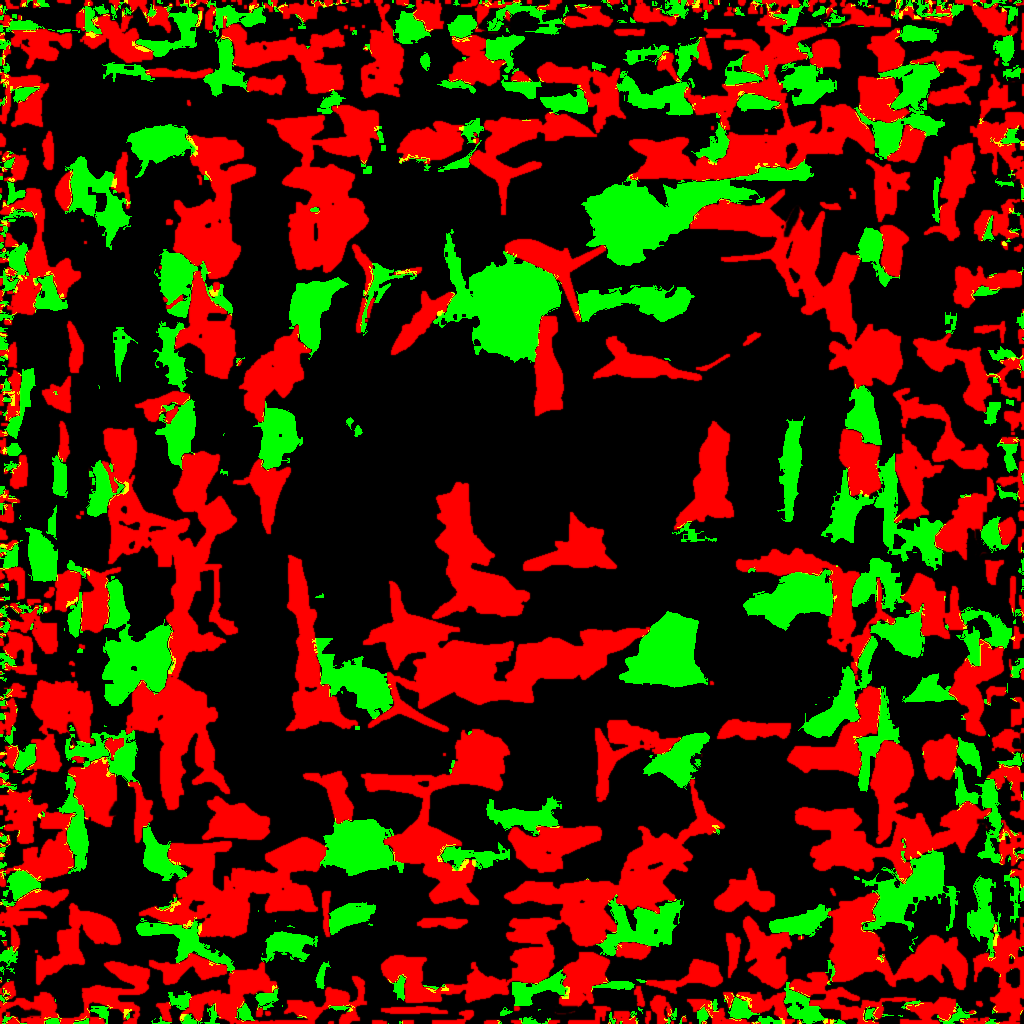
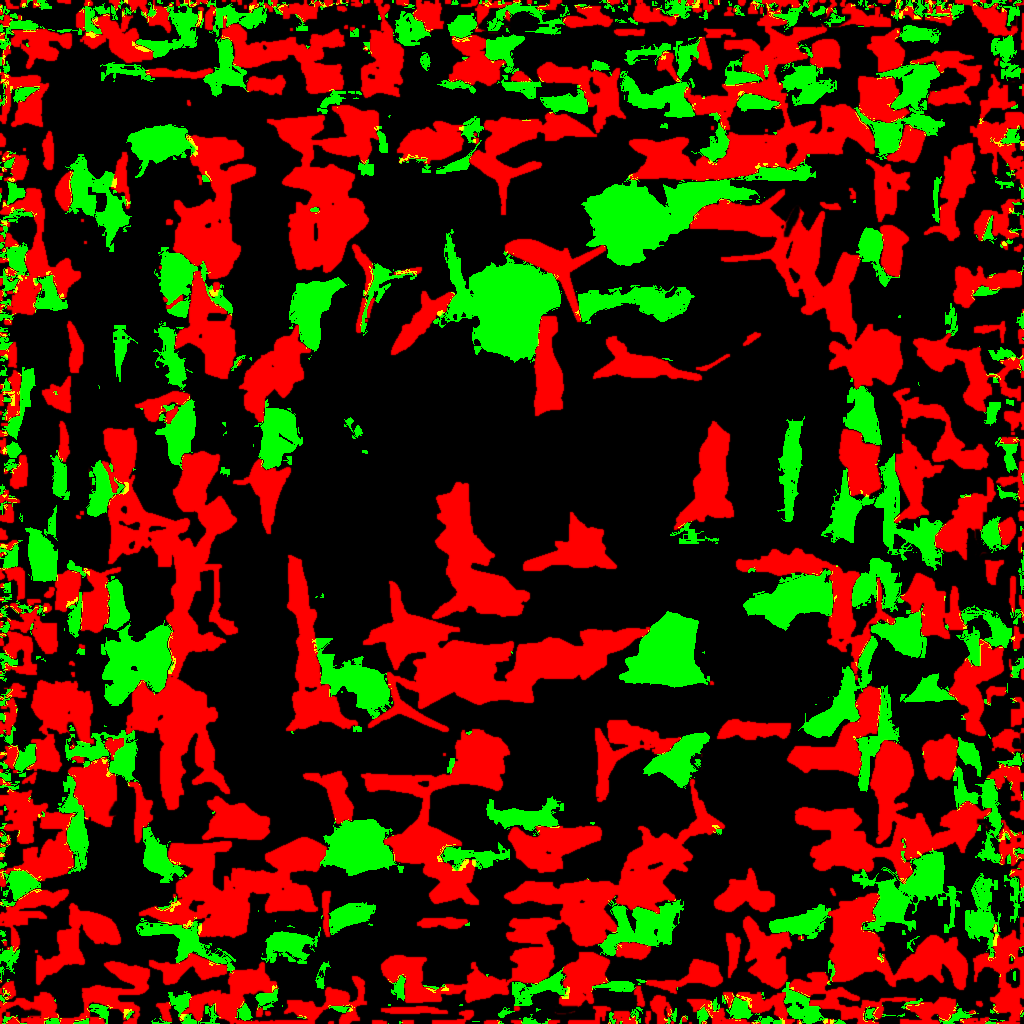
Dark skin tones: no pale patches on the neck and wrists, no dark blotches on the tops (review 26.10 item 8)
meshy-tex/skinmask3.py, a last pass over the twelve outfit masks:
- skin painted just past the neck and hands (the V of a hood, a wrist under a cuff) was left out
  of the mask, since the part map gives those triangles to the chest and forearms: it showed as
  pale patches round a dark neck and wrist. Now taken near the neck, head and hands (the neck's
  weight is shared with the head, so the neck alone anchored almost nothing).
- cloth earlier passes took for skin (a yellow sweater, an orange hoodie, white cuffs, prints)
  turned dark with a dark skin: off the head and hands, very saturated, near white or grey paint
  is let go.
Checked by rendering every outfit with the darkest tone against its plain texture; masks ?v=6.

Claude-Session: https://claude.ai/code/session_018KhzbYa45jZkz7bk7p363N

diff --git a/public/store-game/index.html b/public/store-game/index.html
@@ -2790,7 +2790,7 @@ const MESHY_MASK={};
 function meshyMask(name){ if(MESHY_MASK[name]) return MESHY_MASK[name];
   // no mipmaps: the atlas is hundreds of small islands, and a smaller copy of the mask averages each one with the
   // black round it, so a figure further off had half-coloured hands and neck
-  const t=new THREE.TextureLoader().load(ASSET+'people/tex/mask/'+name+'.png?v=5'); t.flipY=false; t.generateMipmaps=false; t.minFilter=THREE.LinearFilter; return MESHY_MASK[name]=t; }
+  const t=new THREE.TextureLoader().load(ASSET+'people/tex/mask/'+name+'.png?v=6'); t.flipY=false; t.generateMipmaps=false; t.minFilter=THREE.LinearFilter; return MESHY_MASK[name]=t; }
 function meshyLook(model,o,body,outfit){
   const ref=MESHY_REF[body]; if(!ref) return;
   const hc=(M_HAIR.find(x=>x[0]===o.mHair)||M_HAIR[0])[2], sc=(M_SKIN.find(x=>x[0]===o.mSkin)||M_SKIN[0])[2];

diff --git a/store-game/meshy-tex/skinmask3.py b/store-game/meshy-tex/skinmask3.py
@@ -1,0 +1,48 @@
+# skinmask3.py : the skin in each outfit's mask, the last pass (after skinmask2.py and eyemask.py). Review 26.10 item 8:
+# with a dark skin, stripes and pale patches on the neck and hands, and dark blotches on some tops.
+# - Skin painted just past the neck and hands (the V of a hood, the wrist under a cuff) sits on triangles the part map
+#   gives to the chest and forearms, where skinmask2.py only took paint very close to the face's tone: it is taken
+#   within 3% of the figure's height of the neck, head and hands, and paint close to this figure's own skin within 7%.
+# - Cloth that earlier passes took for skin (a yellow or orange top, white cuffs, a print) is let go.
+# Reads uv-<body>.json (uvdump.mjs), parts-<body>.npy (skinparts.py) and eyes-<body>.png; checked by rendering each
+# outfit with the darkest tone. Usage: python3 skinmask3.py [mask dir] --write
+import json, numpy as np, glob, os, sys
+from PIL import Image, ImageDraw, ImageFilter
+from scipy.spatial import cKDTree
+T='../../public/store-game/people/tex/'; args=[a for a in sys.argv[1:] if not a.startswith('--')]; MASK=args[0] if args else T+'mask/'; EYES='.'
+for body in ('1','F1'):
+    d=json.load(open(f'uv-{body}.json')); p=d['prims'][0]; names=[n.replace('mixamorig:','') for n in d['names']]
+    P=np.array(p['pos'],np.float32).reshape(-1,3); UV=np.array(p['uv'],np.float32).reshape(-1,2); UV/=UV.max()
+    I=np.array(p['idx']).reshape(-1,3); J=np.array(p['j']).reshape(-1,4); W=np.array(p['w'],np.float32).reshape(-1,4)
+    bare=[names.index(n) for n in ('Neck','Head','LeftHand','RightHand')]   # the neck shares its weight with the head: on its own it held almost no vertex
+    wb=sum(((J==k)*W).sum(1) for k in bare); core=wb>.6
+    H=P[:,1].max()-P[:,1].min(); R=.03*H
+    dd,_=cKDTree(P[core]).query(P[I].mean(1))
+    def zone(sel):
+        z=Image.new('L',(1024,1024),0); dr=ImageDraw.Draw(z)
+        for t in I[sel]: dr.polygon([(u*1024,v*1024) for u,v in UV[t]],fill=255)
+        return np.asarray(z)>127
+    Z=zone(dd<R); Z2=zone(dd<R*2.4)   # Z2: the V of a hood and a low neckline, down the chest
+    E=np.asarray(Image.open(f'{EYES}/eyes-{body}.png'))>60
+    for f in sorted(glob.glob(T+body+'-*.jpg')):
+        if f.endswith('-m.jpg'): continue
+        name=os.path.basename(f)[:-4]
+        a=np.asarray(Image.open(f).convert('RGB').resize((1024,1024),Image.LANCZOS),np.float32)/255
+        m=np.asarray(Image.open(MASK+name+'.png').convert('RGB')).copy(); hair=m[...,0]>127; sk=m[...,1]>127
+        r,g,b=a[...,0],a[...,1],a[...,2]; mx=a.max(2); mn=a.min(2); lum=.3*r+.59*g+.11*b; sat=(mx-mn)/np.maximum(mx,1e-3)
+        ref=np.median(a[sk&Z],0); dist=np.linalg.norm(a-ref,axis=-1)
+        warm=~sk&~hair&~E&(r>=g*.97)&(g>=b*.9)&(sat>.06)&(sat<.6)
+        add=(Z&warm&(lum>.25)&(dist<.3))|(Z2&warm&(lum>.5)&(dist<.16))   # further out, only paint close to this figure's own skin
+        # an island's soft edge, paint blending to the gutter, next to skin: grow two texels over it
+        new=sk|add; ar=lambda x:np.asarray(Image.fromarray((x*255).astype('uint8')).filter(ImageFilter.MaxFilter(3)))>127
+        for _ in range(2): new=new|(ar(new)&Z2&~hair&~E&(dist<.45))
+        # and the other way: cloth that earlier passes took for skin (a yellow or orange top, a white cuff, a printed logo)
+        # turned dark with a dark skin. Off the head and hands, paint skin never is: very saturated, near white or grey
+        Pt=np.load(f'parts-{body}.npy'); bare=(Pt==1)|(Pt==2)
+        cloth=~bare&(lum>=.1)&((sat>.62)|(sat<.1)|(lum>.93))
+        g=np.maximum(m[...,1],(new*255).astype('uint8')); g[cloth]=0
+        print('   cloth taken out',int((cloth&(m[...,1]>127)).sum()),end='  ')
+        m[...,1]=g
+        if '--write' in sys.argv: Image.fromarray(m).save(MASK+name+'.png',optimize=True)
+        else: Image.fromarray(m).save(f'se-{name}.png')
+        print(name,'ref',np.round(ref,2),'added',int((new&~sk).sum()))
